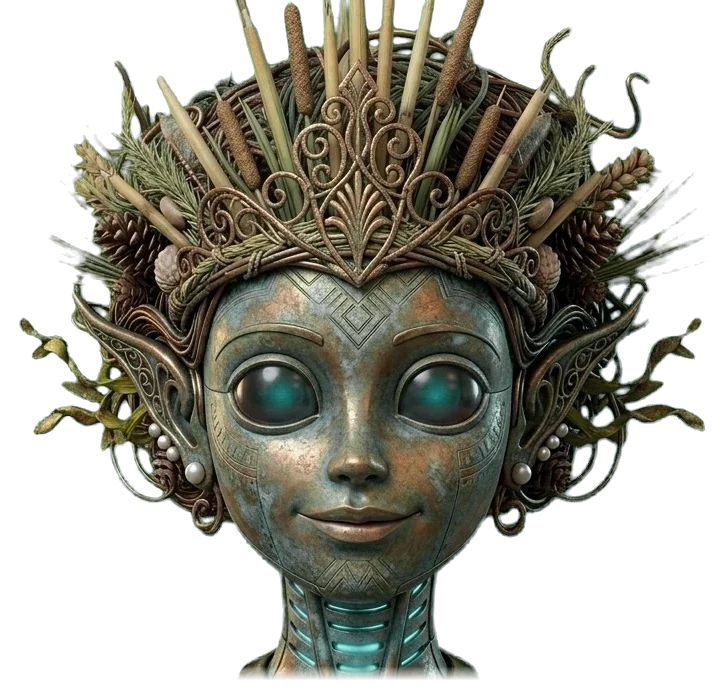
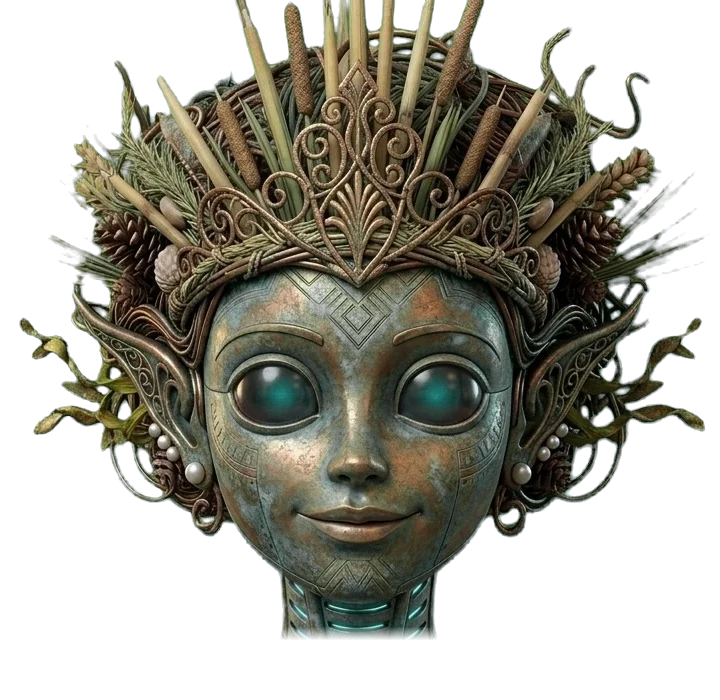
A.L.T.A.: her head sits lower on her collar (#313)
Her head moves down about 16 px on the 1376 x 768 frame and her neck is cut
shorter (template row 640), so her chin settles just above the shell collar
instead of standing tall on a long neck.

Claude-Session: https://claude.ai/code/session_0195hiXiVZY5DpQ2CCYEr2vL

Changed region(s): [[0.3361, 0.9, 0.6722, 0.99]]

diff --git a/assets/alta/preview.html b/assets/alta/preview.html
@@ -21,7 +21,7 @@ p{margin:0 0 12px;color:var(--ink2);max-width:60ch}
 .tail{left:0;top:45.833%;width:100%;height:54.167%;object-fit:fill;-webkit-mask:linear-gradient(#0000 0,#000 4%);mask:linear-gradient(#0000 0,#000 4%)}
 .palms{left:31.977%;top:0;width:37.209%;height:47.917%;opacity:0;transition:opacity .5s ease-in-out}
 .palms.on{opacity:1}
-.head{left:41.43%;top:3.863%;width:17.529%;height:30.534%}
+.head{left:41.43%;top:5.947%;width:17.529%;height:30.534%}
 .head img{position:absolute;display:block}
 .base{inset:0;width:100%;height:100%}
 .eyes{position:absolute;left:29.167%;top:47.143%;width:41.667%;height:17.143%;-webkit-mask:url(parts/head-lens.png) 0 0/100% 100% no-repeat;mask:url(parts/head-lens.png) 0 0/100% 100% no-repeat}
